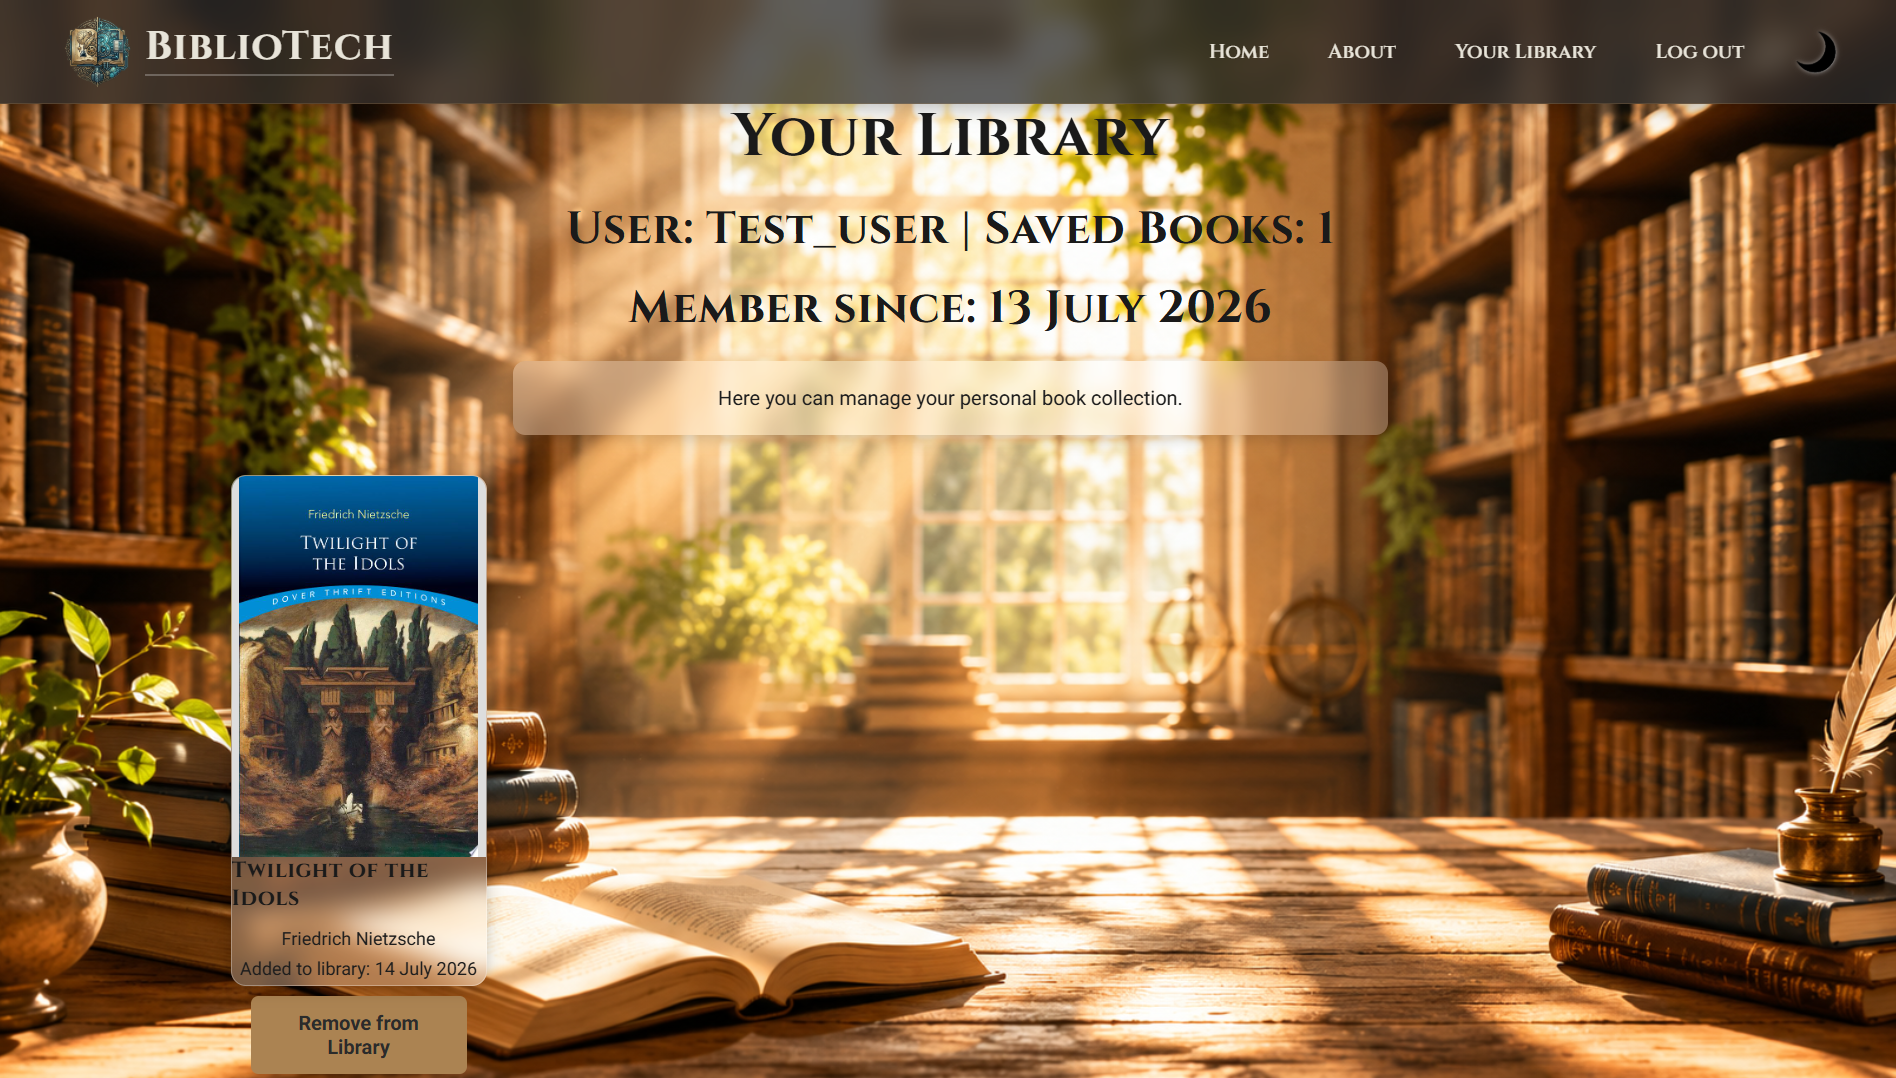
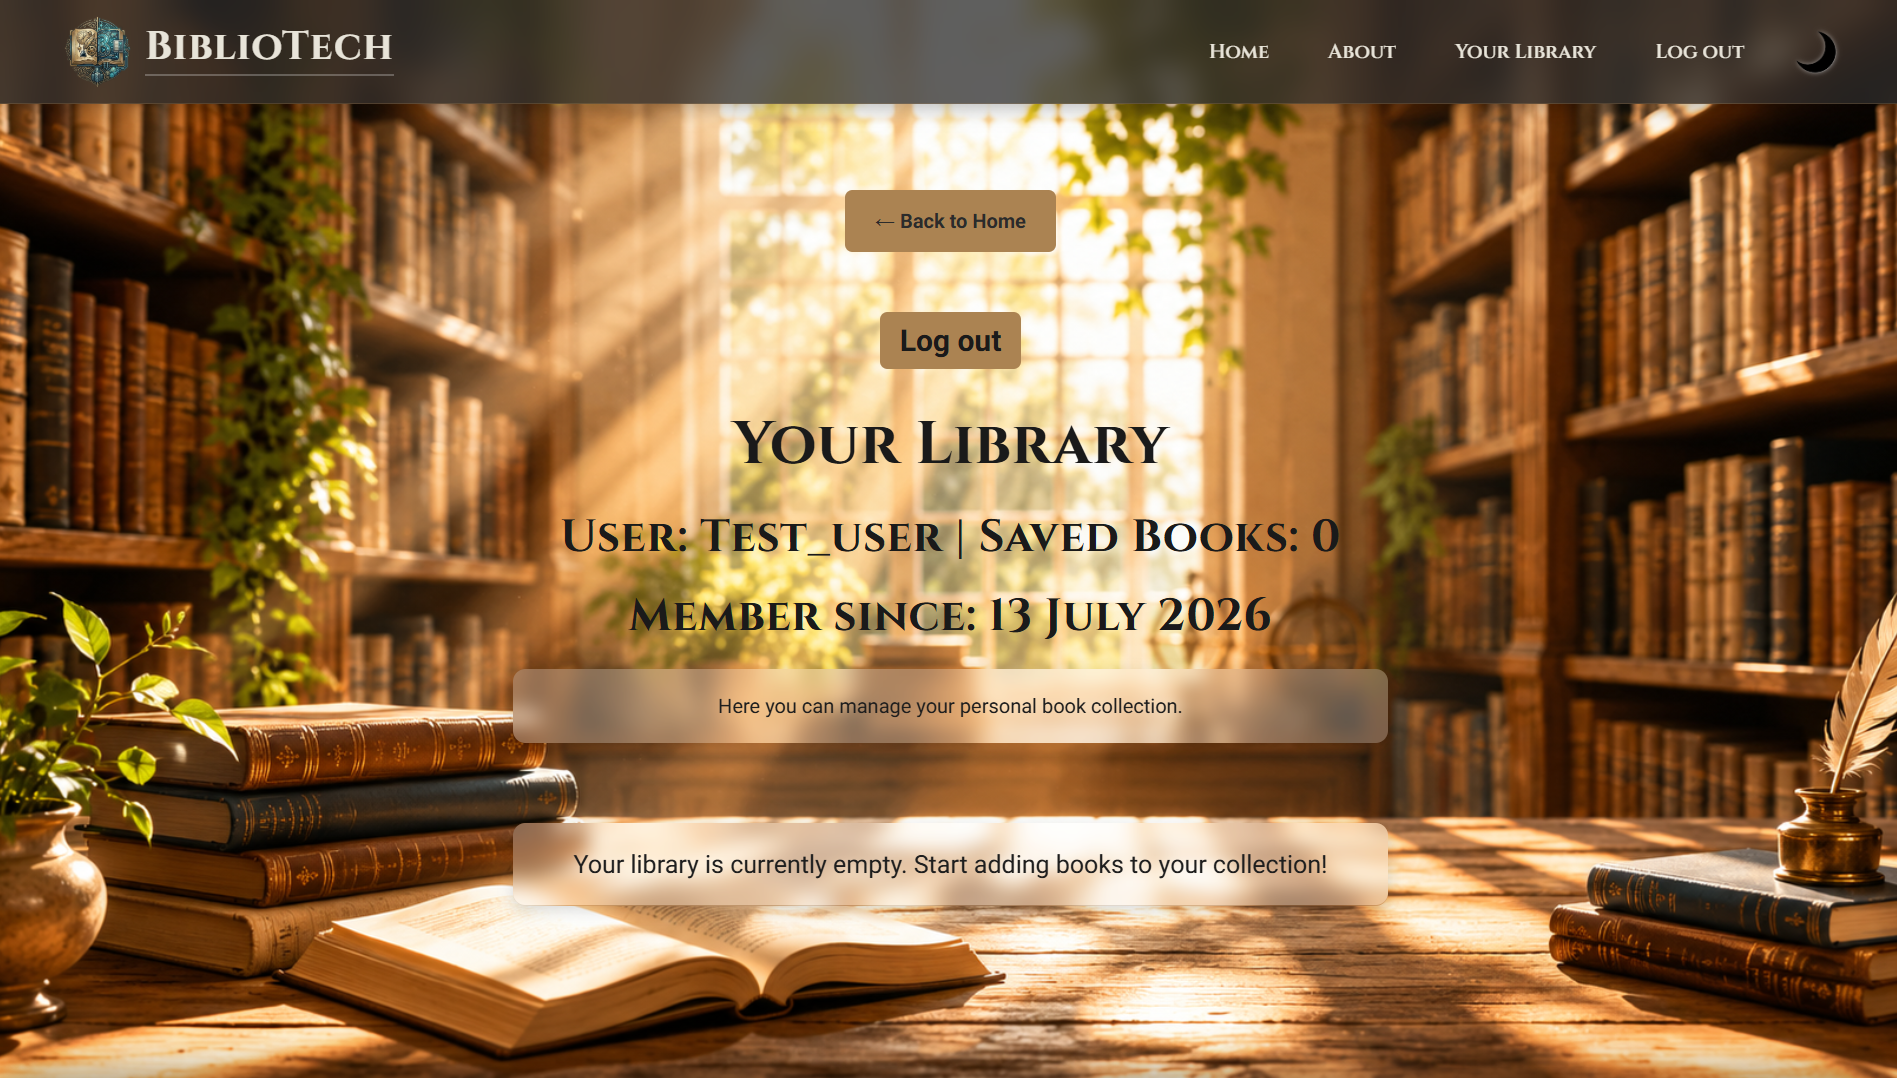
Improve library page UI and responsive card layout

diff --git a/app/static/css/style.css b/app/static/css/style.css
@@ -627,6 +627,23 @@ body.menu-open {
   padding: 0 1.5rem;
 }
 
+.library-grid {
+    grid-template-columns: repeat(auto-fit, minmax(220px, 280px));
+    justify-content: center;
+    gap: 2rem;
+}
+
+.library-grid a {
+    text-decoration: none;
+    color: inherit;
+}
+
+.book-card-wrapper {
+    display: flex;
+    flex-direction: column;
+    align-items: center;
+}
+
 .book-card {
 
     background:rgba(255,255,255,0.25);
@@ -642,6 +659,20 @@ body.menu-open {
         box-shadow 0.3s ease;
 }
 
+.library-grid .book-card {
+    display: flex;
+    flex-direction: column;
+    align-items: center;
+    text-align: center;
+    width: 250px;
+}
+
+.library-grid .book-card h3 {
+    width: 100%;
+    overflow-wrap: break-word;
+    text-align: center;
+}
+
 .book-card:hover {
     transform:translateY(-8px);
     box-shadow:
@@ -653,6 +684,12 @@ body.menu-open {
   aspect-ratio: 2 / 3;
   object-fit: contain;
   background-color: var(--border-color);
+}
+
+.library-grid .book-card img {
+    width: 180px;
+    height: 260px;
+    object-fit: cover;
 }
 
 .book-card-content {

diff --git a/app/templates/your_library.html b/app/templates/your_library.html
@@ -22,7 +22,8 @@
 <p class="highlighted-text">Here you can manage your personal book collection.</p>
 
 {% if books %}
-    <div class="results-grid">
+    <div class="results-grid library-grid">
+        <div class="book-card-wrapper">
         {% for entry in library_entries %}
         <a href="{{ url_for('routes.book_detail', book_id=entry.book.google_book_id) }}">
             <div class="book-card">
@@ -33,13 +34,15 @@
                 <p>{{ entry.book.authors if entry.book.authors else "Unknown Author" }}</p>
                 <p>Added to library: {{ entry.date_created.strftime("%d %B %Y") }}</p>
             </div>
-            <form action="{{ url_for('routes.remove_from_library', book_id=entry.book.google_book_id) }}" method="POST" class="remove-form">
-                <button type="submit">
-                    Remove from Library
-                </button>
-            </form>
         </a>
-        {% endfor %}
+
+        <form action="{{ url_for('routes.remove_from_library', book_id=entry.book.google_book_id) }}" method="POST" class="remove-form">
+            <button type="submit">
+                Remove from Library
+            </button>
+        </form>
+        </div>
+{% endfor %}
     </div>
 {% else %}
     <div class="empty-state">